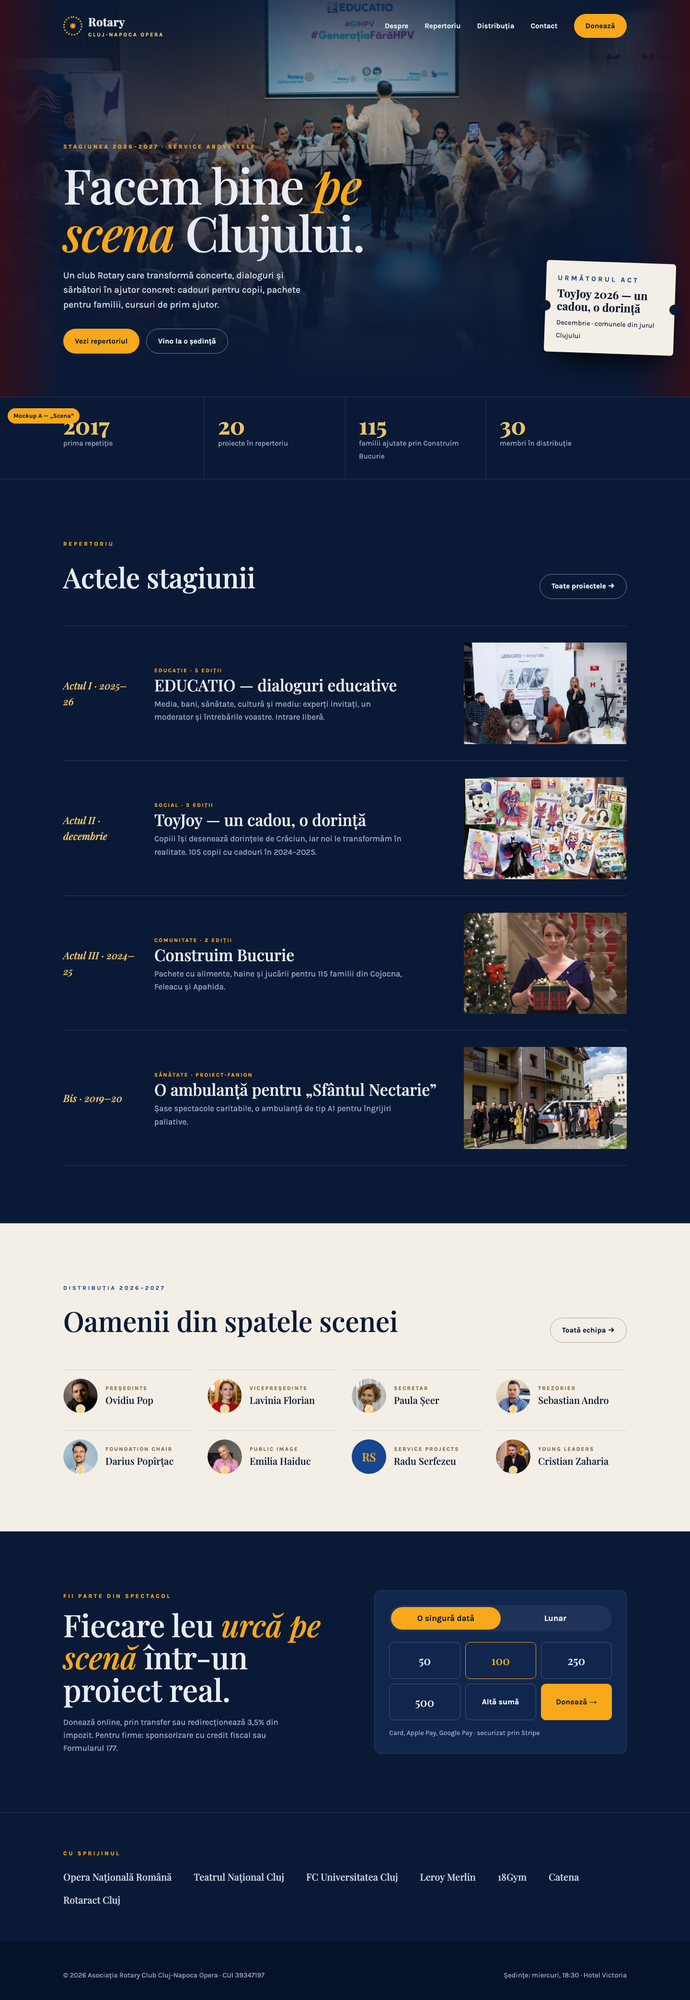
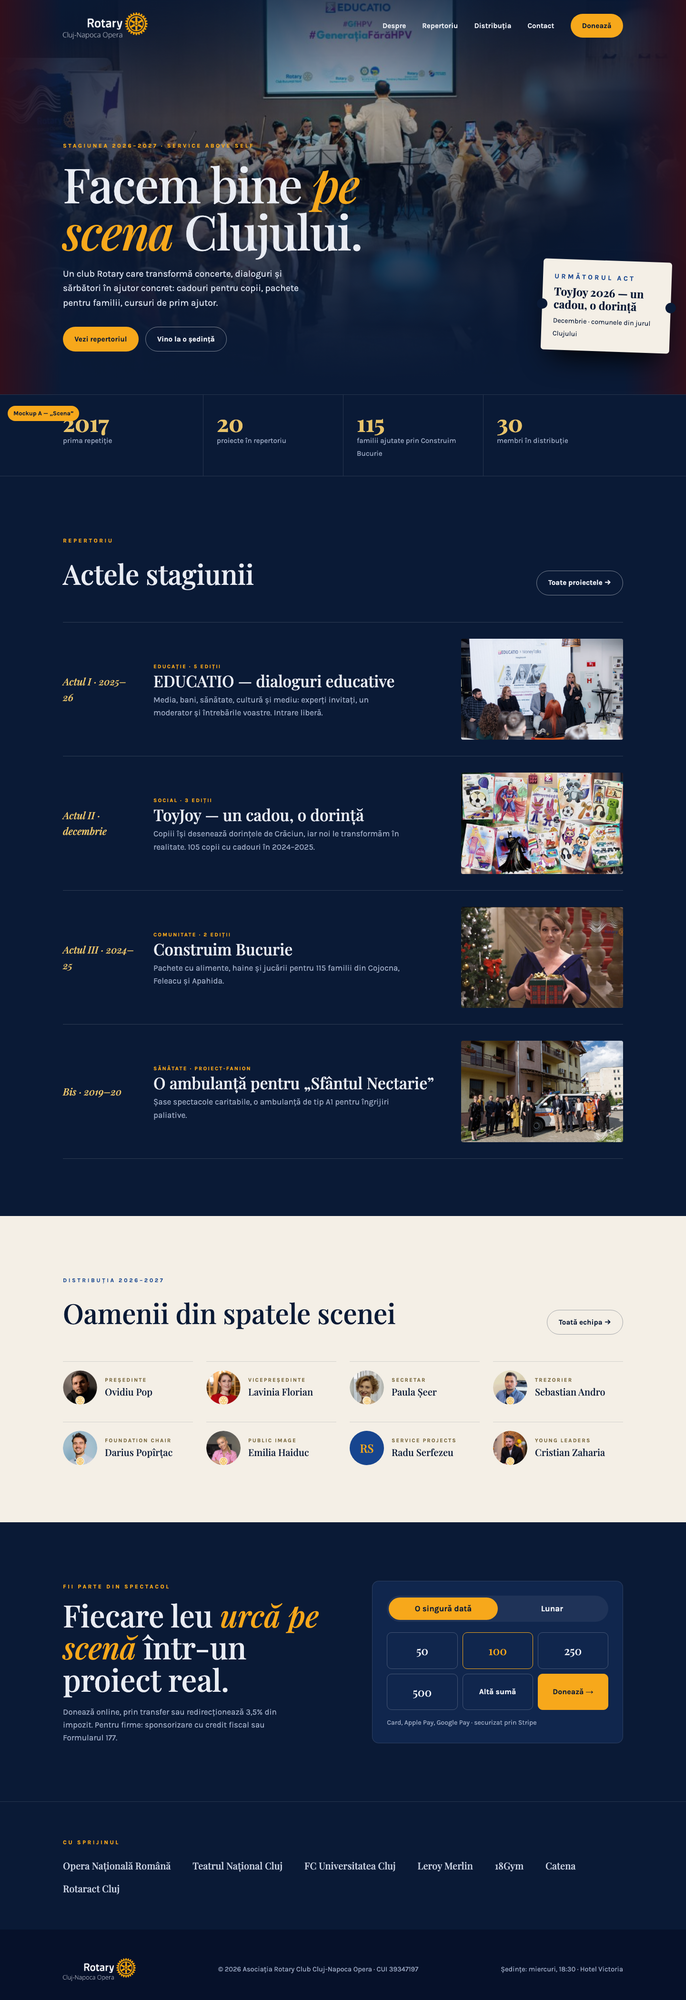
Auto-sync from Claude Code

diff --git a/rotary/site-content/mockups/A-scena.html b/rotary/site-content/mockups/A-scena.html
@@ -57,7 +57,7 @@ footer{background:#06112A;padding:60px 0 40px;color:var(--mute);font-size:.92rem
 .tag-mock{position:fixed;left:16px;bottom:16px;z-index:99;background:var(--gold);color:var(--night);font-weight:700;padding:6px 12px;border-radius:999px;font-size:.8rem}
 </style></head><body>
 <div class="tag-mock">Mockup A — „Scena”</div>
-<header class="nav"><div class="wrap"><a class="logo"><span class="wheel">✺</span><span><b>Rotary</b><small>Cluj-Napoca Opera</small></span></a>
+<header class="nav"><div class="wrap"><a class="logo"><img src="https://rotaryoperacluj.ro/wp-content/uploads/2026/09/rotary-cluj-napoca-opera-alb.png" alt="Rotary Club Cluj-Napoca Opera" style="height:56px;width:auto"></a>
 <nav class="menu"><a>Despre</a><a>Repertoriu</a><a>Distribuția</a><a>Contact</a><a class="btn btn-gold">Donează</a></nav></div></header>
 <section class="hero" style="padding:0"><img src="https://rotaryoperacluj.ro/wp-content/uploads/2026/05/educatio-hpv-2-1024x683.jpg" alt="">
 <div class="wrap"><span class="eyebrow">Stagiunea 2026–2027 · Service Above Self</span>
@@ -80,7 +80,7 @@ footer{background:#06112A;padding:60px 0 40px;color:var(--mute);font-size:.92rem
 <section class="support"><div class="wrap"><div><span class="eyebrow">Fii parte din spectacol</span><h2 class="serif" style="margin:14px 0 22px">Fiecare leu <em>urcă pe scenă</em> într-un proiect real.</h2><p style="color:var(--mute);max-width:46ch">Donează online, prin transfer sau redirecționează 3,5% din impozit. Pentru firme: sponsorizare cu credit fiscal sau Formularul 177.</p></div>
 <div class="donate"><div class="seg"><span class="on">O singură dată</span><span>Lunar</span></div><div class="amts"><span>50</span><span class="sel">100</span><span>250</span><span>500</span><span style="font-family:Karla;font-weight:700;font-size:1rem;display:grid;place-items:center">Altă sumă</span><span style="background:var(--gold);color:var(--night);border-color:var(--gold);font-family:Karla;font-weight:700;font-size:1rem;display:grid;place-items:center">Donează →</span></div><small>Card, Apple Pay, Google Pay · securizat prin Stripe</small></div></div></section>
 <div class="partners"><div class="wrap"><span class="eyebrow">Cu sprijinul</span><div class="logos"><span>Opera Națională Română</span><span>Teatrul Național Cluj</span><span>FC Universitatea Cluj</span><span>Leroy Merlin</span><span>18Gym</span><span>Catena</span><span>Rotaract Cluj</span></div></div></div>
-<footer><div class="wrap"><span>© 2026 Asociația Rotary Club Cluj-Napoca Opera · CUI 39347197</span><span>Ședințe: miercuri, 18:30 · Hotel Victoria</span></div></footer>
+<footer><div class="wrap" style="align-items:center"><img src="https://rotaryoperacluj.ro/wp-content/uploads/2026/09/rotary-cluj-napoca-opera-alb.png" alt="" style="height:48px;width:auto"><span>© 2026 Asociația Rotary Club Cluj-Napoca Opera · CUI 39347197</span><span>Ședințe: miercuri, 18:30 · Hotel Victoria</span></div></footer>
 <script>
 const B=[["Ovidiu Pop","Președinte","https://rotaryoperacluj.ro/wp-content/uploads/2026/09/ovidiu-pop-300x300.png"],["Lavinia Florian","Vicepreședinte","https://rotaryoperacluj.ro/wp-content/uploads/2026/09/lavinia-florian-300x300.png"],["Paula Șeer","Secretar","https://rotaryoperacluj.ro/wp-content/uploads/2026/09/paula-seer-2026-300x300.png"],["Sebastian Andro","Trezorier","https://rotaryoperacluj.ro/wp-content/uploads/2026/09/sebastian-andro-300x300.png"],["Darius Popîrțac","Foundation Chair","https://rotaryoperacluj.ro/wp-content/uploads/2026/09/darius-300x300.png"],["Emilia Haiduc","Public Image","https://rotaryoperacluj.ro/wp-content/uploads/2026/09/emilia-haiduc-300x300.png"],["Radu Serfezeu","Service Projects",""],["Cristian Zaharia","Young Leaders","https://rotaryoperacluj.ro/wp-content/uploads/2026/09/cristi-zaharia-300x300.png"]];
 document.getElementById('cast').innerHTML=B.map(([n,r,i])=>`<div class="member">${i?`<img src="${i}" alt="">`:`<span class="mono">${n.split(' ').map(w=>w[0]).join('')}</span>`}<div><i>${r}</i><b>${n}</b></div></div>`).join('');

diff --git a/rotary/site-content/mockups/B-impact.html b/rotary/site-content/mockups/B-impact.html
@@ -47,7 +47,7 @@ footer{background:var(--navy);color:#C7D3EA;padding:56px 0;margin-top:40px}foote
 .tag-mock{position:fixed;left:16px;bottom:16px;z-index:99;background:var(--blue);color:#fff;font-weight:700;padding:6px 12px;border-radius:999px;font-size:.8rem}
 </style></head><body>
 <div class="tag-mock">Mockup B — „Impact”</div>
-<header class="nav"><div class="wrap"><a class="logo"><span class="wheel">✺</span><span><b class="d">Rotary</b><small>Cluj-Napoca Opera</small></span></a>
+<header class="nav"><div class="wrap"><a class="logo"><img src="https://rotaryoperacluj.ro/wp-content/uploads/2026/09/rotary-cluj-napoca-opera.png" alt="Rotary Club Cluj-Napoca Opera" style="height:52px;width:auto"></a>
 <nav class="menu"><a>Despre</a><a>Proiecte</a><a>Echipa</a><a>Contact</a><a class="btn btn-gold" style="padding:.7em 1.3em">Donează</a></nav></div></header>
 <div class="hero"><div class="wrap"><div><span class="pill">● Club Rotary din Cluj-Napoca, din 2017</span>
 <h1 class="d">Oameni care fac <span>Clujul</span> mai bun.</h1>
@@ -76,7 +76,7 @@ footer{background:var(--navy);color:#C7D3EA;padding:56px 0;margin-top:40px}foote
 <div class="way"><span class="ic">📝</span><h4 class="d">3,5% din impozit</h4><p>Gratuit pentru tine: completează Formularul 230 până pe 25 mai.</p><a>Completează →</a></div>
 <div class="way"><span class="ic">🏢</span><h4 class="d">Sponsorizează</h4><p>Pentru firme: credit fiscal sau Formularul 177.</p><a>Află cum →</a></div>
 <div class="way"><span class="ic">🤝</span><h4 class="d">Devino membru</h4><p>Vino la o ședință: miercuri, 18:30, Hotel Victoria.</p><a>Pașii →</a></div></div></div></section>
-<footer><div class="wrap"><span>© 2026 Asociația Rotary Club Cluj-Napoca Opera · CUI 39347197</span><span>contact@rotaryoperacluj.ro</span></div></footer>
+<footer><div class="wrap" style="align-items:center"><img src="https://rotaryoperacluj.ro/wp-content/uploads/2026/09/rotary-cluj-napoca-opera-alb.png" alt="" style="height:48px;width:auto"><span>© 2026 Asociația Rotary Club Cluj-Napoca Opera · CUI 39347197</span><span>contact@rotaryoperacluj.ro</span></div></footer>
 <script>
 const B=[["Ovidiu Pop","Președinte","https://rotaryoperacluj.ro/wp-content/uploads/2026/09/ovidiu-pop-300x300.png"],["Lavinia Florian","Vicepreședinte","https://rotaryoperacluj.ro/wp-content/uploads/2026/09/lavinia-florian-300x300.png"],["Paula Șeer","Secretar","https://rotaryoperacluj.ro/wp-content/uploads/2026/09/paula-seer-2026-300x300.png"],["Sebastian Andro","Trezorier","https://rotaryoperacluj.ro/wp-content/uploads/2026/09/sebastian-andro-300x300.png"],["Darius Popîrțac","Foundation","https://rotaryoperacluj.ro/wp-content/uploads/2026/09/darius-300x300.png"],["Emilia Haiduc","Public Image","https://rotaryoperacluj.ro/wp-content/uploads/2026/09/emilia-haiduc-300x300.png"],["Radu Serfezeu","Service Projects",""],["Cristian Zaharia","Young Leaders","https://rotaryoperacluj.ro/wp-content/uploads/2026/09/cristi-zaharia-300x300.png"]];
 document.getElementById('faces').innerHTML=B.map(([n,r,i])=>`<div class="face">${i?`<img src="${i}" alt="">`:`<span class="mono">${n.split(' ').map(w=>w[0]).join('')}</span>`}<b>${n}</b><span>${r}</span></div>`).join('');
